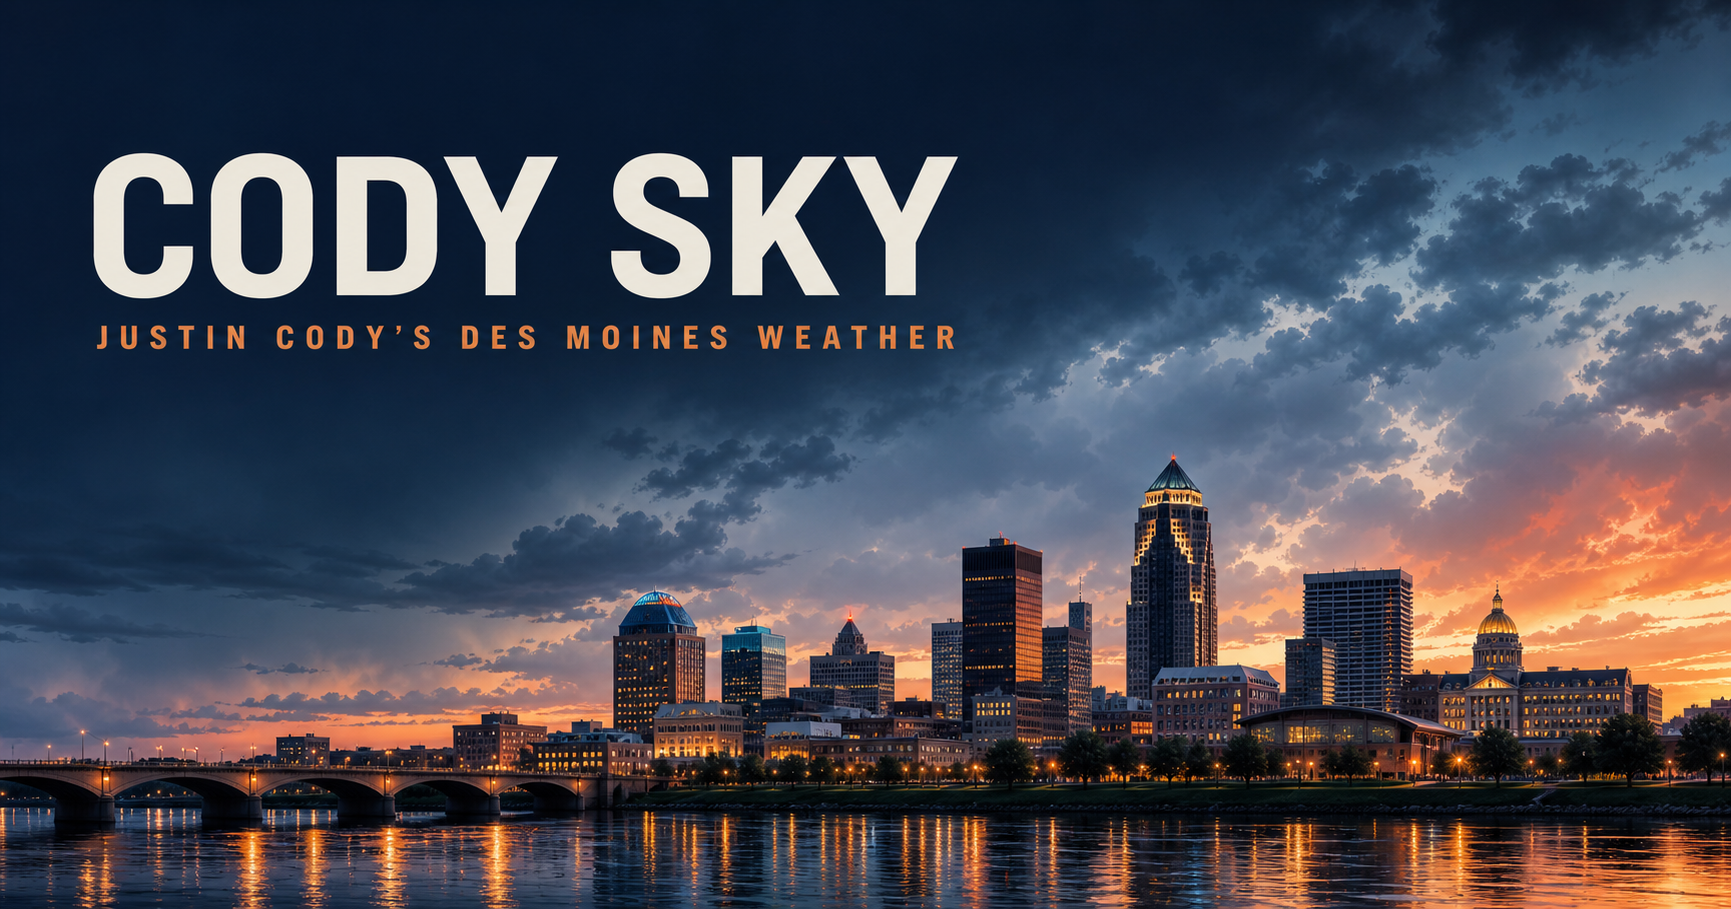
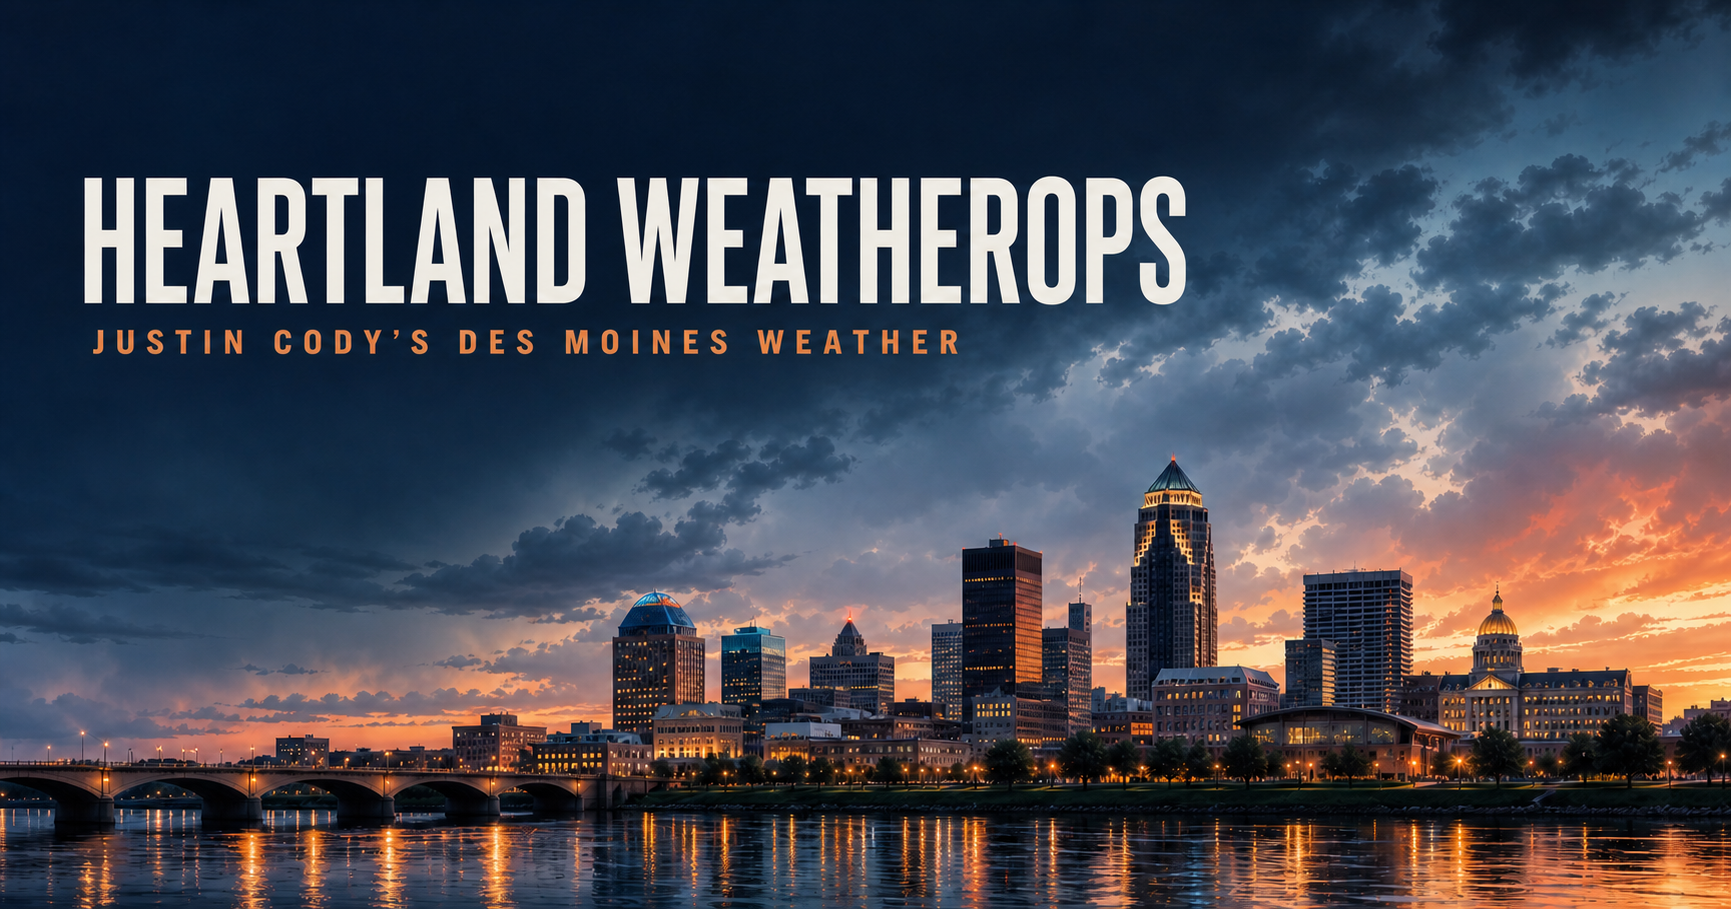
Rebrand as Heartland WeatherOps

Changed region(s): [[0.0, 0.5237, 1.0, 1.0], [0.0312, 0.154, 0.6863, 0.4004], [0.5615, 0.5853, 0.5927, 0.6469]]

diff --git a/app/page.tsx b/app/page.tsx
@@ -478,10 +478,10 @@ export default function Home() {
   return (
     <main>
       <header className="site-header">
-        <a className="brand" href="#top" aria-label="Cody Sky home">
+        <a className="brand" href="#top" aria-label="Heartland WeatherOps home">
           <span className="brand-mark">C</span>
           <span className="brand-copy">
-            <strong>Cody Sky</strong>
+            <strong>Heartland WeatherOps</strong>
             <small>Justin Cody’s Des Moines Weather</small>
           </span>
         </a>
@@ -514,10 +514,10 @@ export default function Home() {
         <span className="data-source">Live data · Open‑Meteo</span>
       </header>
 
-      <section className="brand-hero" aria-label="Cody Sky — Justin Cody’s Des Moines Weather">
+      <section className="brand-hero" aria-label="Heartland WeatherOps — Justin Cody’s Des Moines Weather">
         <img
           src="./og.png"
-          alt="Cody Sky over an illustrated Des Moines skyline at sunset"
+          alt="Heartland WeatherOps over the Des Moines skyline at sunset"
         />
       </section>
 
@@ -883,7 +883,7 @@ export default function Home() {
       </div>
 
       <footer>
-        <p>Cody Sky · A personal Des Moines weather dashboard by Justin Cody</p>
+        <p>Heartland WeatherOps · A personal Des Moines weather dashboard by Justin Cody</p>
         <p>Weather conditions can change quickly. Always follow official guidance during severe weather.</p>
       </footer>
     </main>

diff --git a/app/layout.tsx b/app/layout.tsx
@@ -7,7 +7,7 @@ export async function generateMetadata(): Promise<Metadata> {
   const host = requestHeaders.get("host") ?? "localhost:3000";
   const protocol = host.includes("localhost") ? "http" : "https";
   const metadataBase = new URL(`${protocol}://${host}`);
-  const title = "Cody Sky | Justin Cody’s Des Moines Weather";
+  const title = "Heartland WeatherOps | Justin Cody’s Des Moines Weather";
   const description =
     "Justin Cody’s personal Des Moines weather dashboard with live conditions, forecasts, alerts, radar, and satellite imagery.";
 
@@ -17,14 +17,14 @@ export async function generateMetadata(): Promise<Metadata> {
     description,
     icons: { icon: "/favicon.svg", shortcut: "/favicon.svg" },
     openGraph: {
-      title: "Cody Sky",
+      title: "Heartland WeatherOps",
       description: "Justin Cody’s Des Moines Weather",
       type: "website",
-      images: [{ url: "/og.png", width: 1200, height: 630, alt: "Cody Sky — Justin Cody’s Des Moines Weather" }],
+      images: [{ url: "/og.png", width: 1731, height: 909, alt: "Heartland WeatherOps — Justin Cody’s Des Moines Weather" }],
     },
     twitter: {
       card: "summary_large_image",
-      title: "Cody Sky",
+      title: "Heartland WeatherOps",
       description: "Justin Cody’s Des Moines Weather",
       images: ["/og.png"],
     },

diff --git a/github-pages/index.html b/github-pages/index.html
@@ -3,17 +3,17 @@
   <head>
     <meta charset="UTF-8" />
     <meta name="viewport" content="width=device-width, initial-scale=1.0" />
-    <title>Cody Sky | Justin Cody’s Des Moines Weather</title>
+    <title>Heartland WeatherOps | Justin Cody’s Des Moines Weather</title>
     <meta
       name="description"
       content="Justin Cody’s personal Des Moines weather dashboard with live conditions, forecasts, alerts, radar, and satellite imagery."
     />
-    <meta property="og:title" content="Cody Sky" />
+    <meta property="og:title" content="Heartland WeatherOps" />
     <meta property="og:description" content="Justin Cody’s Des Moines Weather" />
     <meta property="og:type" content="website" />
     <meta property="og:image" content="https://imjp52.github.io/skyline-weather/og.png" />
     <meta name="twitter:card" content="summary_large_image" />
-    <meta name="twitter:title" content="Cody Sky" />
+    <meta name="twitter:title" content="Heartland WeatherOps" />
     <meta name="twitter:description" content="Justin Cody’s Des Moines Weather" />
     <meta name="twitter:image" content="https://imjp52.github.io/skyline-weather/og.png" />
     <link rel="icon" href="/skyline-weather/favicon.svg" />

diff --git a/app/globals.css b/app/globals.css
@@ -41,8 +41,10 @@ main {
 }
 .brand-hero img {
   display: block;
-  width: min(100%, 648px);
-  height: auto;
+  width: min(100%, 1220px);
+  height: clamp(220px, 39vw, 480px);
+  object-fit: cover;
+  object-position: center 48%;
 }
 
 .site-header {

diff --git a/README.md b/README.md
@@ -1,4 +1,4 @@
-# Cody Sky
+# Heartland WeatherOps
 
 Justin Cody’s responsive personal Des Moines weather dashboard. It starts in Johnston, Iowa and works for locations worldwide.
 
